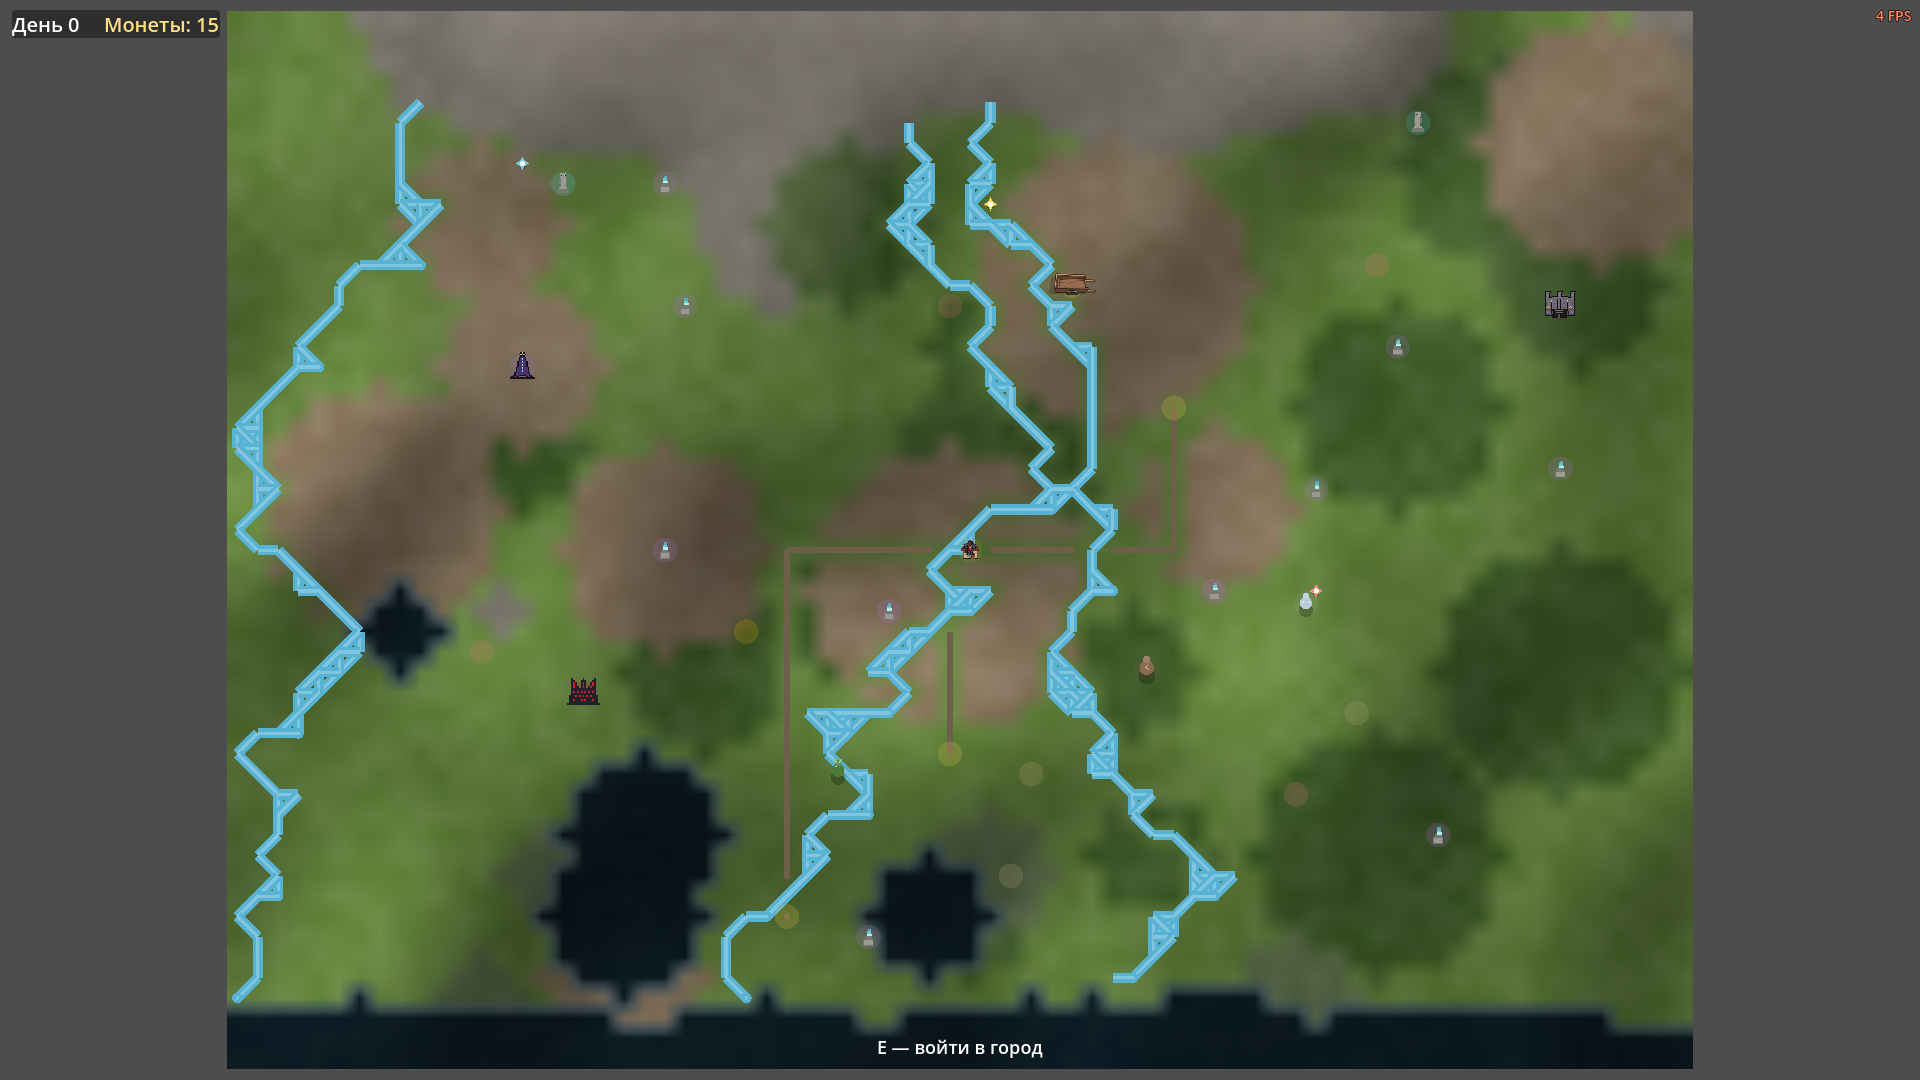
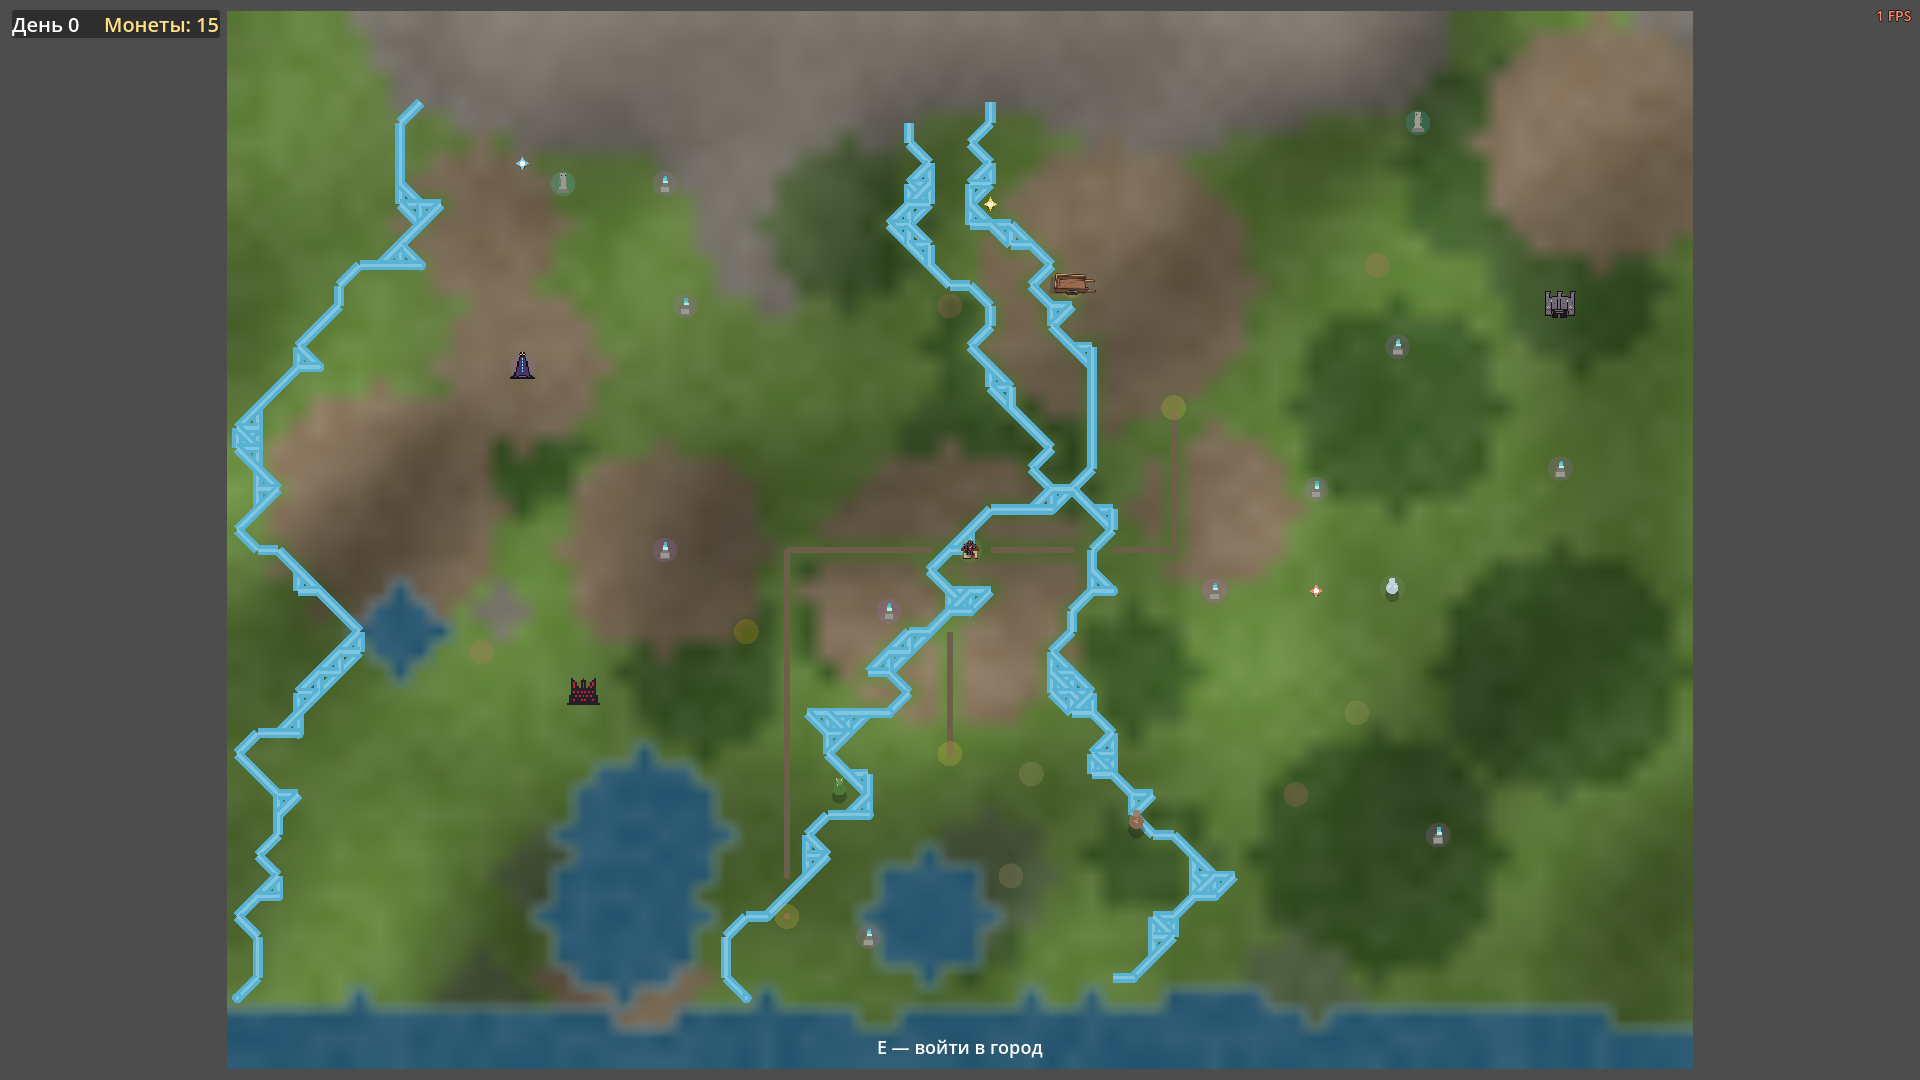
v1.35.2: море больше не чёрное — светотень выпечки не гасит цвет воды
Фидбек (скриншот с чёрной массой на глобале): множитель «не рельефить
воду» из v1.35.1 чернил и цвет воды — море/внутренние озёра были почти
чёрными. Теперь светотень и высотная подсветка — только на суше; вода
держит свой цвет с лёгким углублением вдали от берега и мелью у кромки.
Контроль: море (55,96,113) вместо почти чёрного; тесты зелёные;
headless world — 0 SCRIPT ERROR.

Следующий шаг: приёмка правок этапа 1; этап 2 «Глобальная карта v2» — новый чат.

Changed region(s): [[0.0938, 0.6722, 0.9062, 1.0], [0.1875, 0.5194, 0.25, 0.6417], [0.6562, 0.55, 0.6875, 0.5806]]

diff --git a/CHANGELOG_E2.md b/CHANGELOG_E2.md
@@ -1006,3 +1006,25 @@ README.md, СЛЕДУЮЩИЙ-ШАГ.md, tools/shot_world2.png.**
 
 **Следующий шаг: приёмка правок этапа 1; затем этап 2 «Глобальная
 карта v2» — НОВЫЙ чат.**
+
+## Правки v1.35.2 (2026-10-30): море больше не чёрное — фикс выпечки рельефа
+
+Фидбек заказчика (скриншот: чёрная масса на карте мира). Причина: в
+выпечке рельефа v1.35.1 множитель «не рельефить воду» (светотень на
+воде гасилась до ×0.28) заодно чернил и сам ЦВЕТ воды — море и
+внутренние озёра рисовались почти чёрными и читались дырой в карте.
+
+Исправлено: светотень (свет с СЗ) и высотная подсветка применяются
+только к суше; вода держит свой цвет (#2e5f7a) с лёгким углублением
+вдали от берега (×0.94) и светлой мелью у кромки. Средний цвет моря
+на контрольном кропе: (55, 96, 113) вместо почти чёрного.
+
+Проверки: tools/shot_world2.png — океан и внутреннее море синие,
+горы со светотенью, реки лентами; полный прогон тестов зелёный;
+headless world — 0 SCRIPT ERROR.
+
+**Файлы: scripts/world_view.gd, data/version.json, README.md,
+tools/shot_world2.png.**
+
+**Следующий шаг: приёмка правок этапа 1; затем этап 2 «Глобальная
+карта v2» — НОВЫЙ чат.**

diff --git a/СЛЕДУЮЩИЙ-ШАГ.md b/СЛЕДУЮЩИЙ-ШАГ.md
@@ -5,6 +5,10 @@
 
 ## Текущий статус (2026-10-30, вечер)
 
+- **Правки v1.35.2 (2026-10-30, тем же чатом)** — фикс чёрного моря:
+  в выпечке рельефа светотень гасила и ЦВЕТ воды (море/озёра были
+  почти чёрными); теперь светотень только на суше, вода держит цвет.
+
 - **Правки v1.35.1 (2026-10-30, тем же чатом)** — фидбек приёмки
   «высота не ощущается как высота, мир квадратный»: глобальная карта
   запекается светотеневым рельефом (билинейное сглаживание биомов и

diff --git a/README.md b/README.md
@@ -1,4 +1,4 @@
-# Пепел и Мана — v1.35.1
+# Пепел и Мана — v1.35.2
 
 [![Тесты](https://github.com/SDVGames-Studio/pepel-i-mana/actions/workflows/tests.yml/badge.svg)](https://github.com/SDVGames-Studio/pepel-i-mana/actions/workflows/tests.yml)
 
